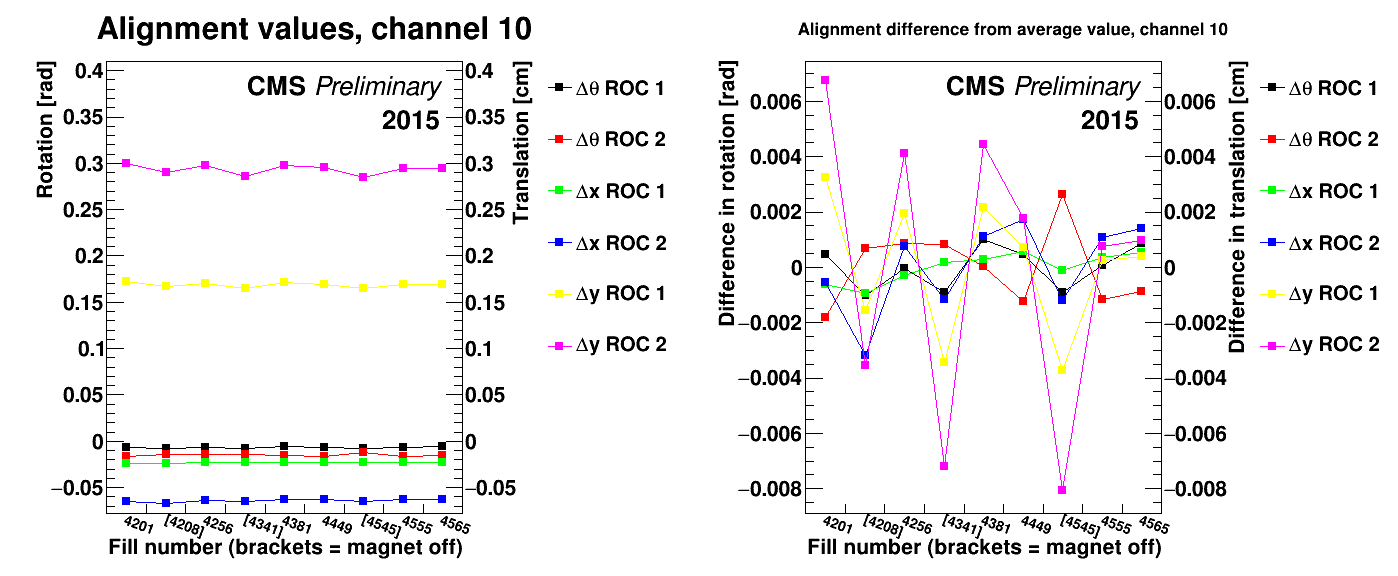
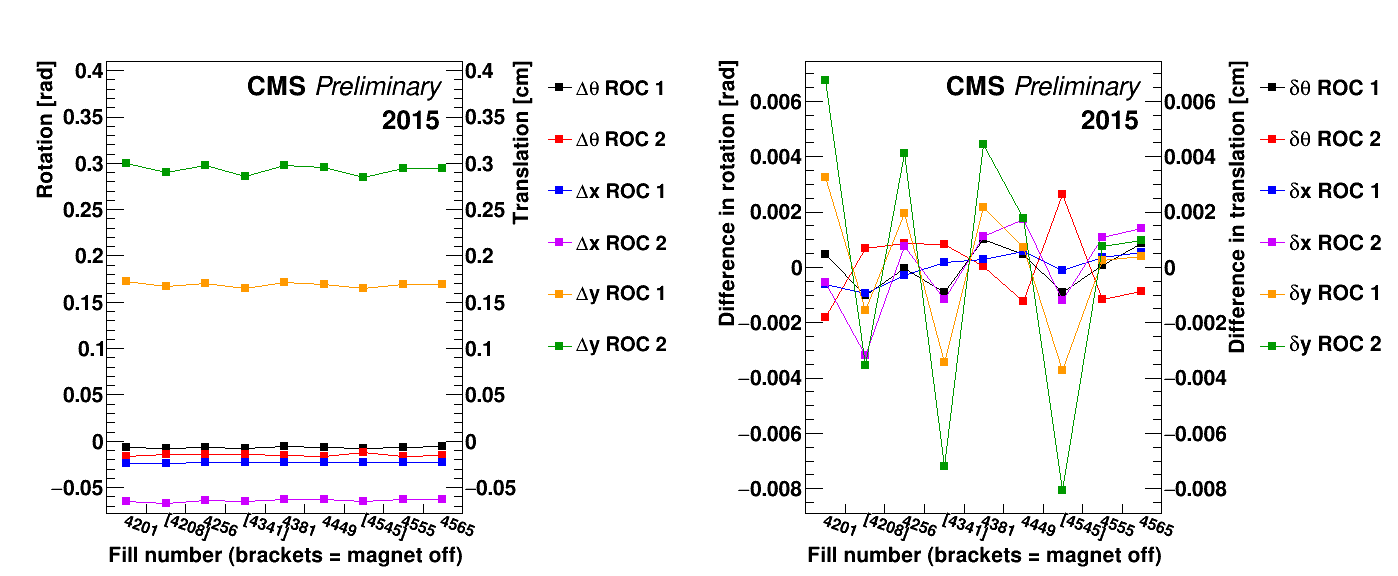
updates to Fig. 8: better colors, use lowercase delta on right side, larger axis labels, remove plot titles

diff --git a/Alignment/PlotAlignmentVsTimePaper.C b/Alignment/PlotAlignmentVsTimePaper.C
@@ -200,6 +200,13 @@ void PlotAlignmentVsTimePaper(void) {
 				    "#Deltax ROC 2",
 				    "#Deltay ROC 1",
 				    "#Deltay ROC 2"};
+  const char *plotLabelDiff[nGraphs] = {"#delta#theta ROC 1",
+					"#delta#theta ROC 2",
+					"#deltax ROC 1",
+					"#deltax ROC 2",
+					"#deltay ROC 1",
+					"#deltay ROC 2"};
+  const int plotColor[nGraphs] = {kBlack, kRed, kBlue, kViolet, kOrange-3, kGreen+2};
   TH1F *hAbs[nScopes][nGraphs];
   TH1F *hAvg[nScopes][nGraphs];
   TCanvas *c[nScopes];
@@ -248,13 +255,16 @@ void PlotAlignmentVsTimePaper(void) {
       hAbs[nScope][i]->Draw("HIST LP same");
     }
     for (int i=0; i<nGraphs; ++i) {
-      hAbs[nScope][i]->SetLineColor(i+1);
-      hAbs[nScope][i]->SetMarkerColor(i+1);
+      hAbs[nScope][i]->SetLineColor(plotColor[i]);
+      hAbs[nScope][i]->SetMarkerColor(plotColor[i]);
       hAbs[nScope][i]->SetMarkerStyle(kFullSquare);
     }
 
     sprintf(title, "Alignment values, channel %d", readoutChannel[chan]);
-    hAbs[nScope][0]->SetTitle(title);
+    //hAbs[nScope][0]->SetTitle(title);
+    hAbs[nScope][0]->SetTitle("");
+    hAbs[nScope][0]->GetXaxis()->SetLabelSize(0.045);
+    hAbs[nScope][0]->GetXaxis()->SetTitleOffset(1.2);
     hAbs[nScope][0]->GetXaxis()->SetTitle("Fill number (brackets = magnet off)");
     hAbs[nScope][0]->GetYaxis()->SetTitle("Rotation [rad]");
     hAbs[nScope][0]->GetYaxis()->SetRangeUser(minAbs-0.01, 0.41);
@@ -308,13 +318,16 @@ void PlotAlignmentVsTimePaper(void) {
       hAvg[nScope][i]->Draw("HIST LP same");
     }
     for (int i=0; i<nGraphs; ++i) {
-      hAvg[nScope][i]->SetLineColor(i+1);
-      hAvg[nScope][i]->SetMarkerColor(i+1);
+      hAvg[nScope][i]->SetLineColor(plotColor[i]);
+      hAvg[nScope][i]->SetMarkerColor(plotColor[i]);
       hAvg[nScope][i]->SetMarkerStyle(kFullSquare);
     }
 
     sprintf(title, "Alignment difference from average value, channel %d", readoutChannel[chan]);
-    hAvg[nScope][0]->SetTitle(title);
+    //hAvg[nScope][0]->SetTitle(title);
+    hAvg[nScope][0]->SetTitle("");
+    hAvg[nScope][0]->GetXaxis()->SetLabelSize(0.045);
+    hAvg[nScope][0]->GetXaxis()->SetTitleOffset(1.2);
     hAvg[nScope][0]->GetXaxis()->SetTitle("Fill number (brackets = magnet off)");
     hAvg[nScope][0]->GetYaxis()->SetTitle("Difference in rotation [rad]");
     hAvg[nScope][0]->GetYaxis()->SetRangeUser(minAvg*1.1, maxAvg*1.1);
@@ -332,7 +345,7 @@ void PlotAlignmentVsTimePaper(void) {
 
     TLegend *l2 = new TLegend(0.81, 0.35, 1.01, 0.9);
     for (int i=0; i<nGraphs; ++i)
-      l2->AddEntry(hAvg[nScope][i], plotLabel[i], "LP");
+      l2->AddEntry(hAvg[nScope][i], plotLabelDiff[i], "LP");
     // l2->AddEntry(hAvg[nScope][0], "#splitline{All rot. & trans. are}{with respect to ROC 0}", "");
     l2->SetFillColor(0);
     l2->Draw();
